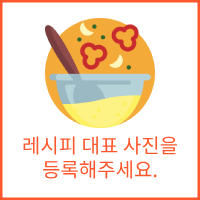
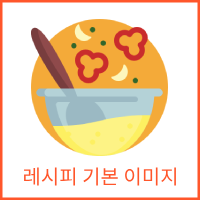
Feat: 레시피 대표 이미지 업로드 파일 삭제 버튼, 파일 미업로드시 기본 이미지로 저장 구현

diff --git a/src/pages/RecipeWrite.js b/src/pages/RecipeWrite.js
@@ -10,18 +10,20 @@ function RecipeWrite(props) {
   const [newIngredientName, setNewIngredientName] = useState("");
   const [newIngredientAmount, setNewIngredientAmount] = useState("");
   const [recipeSteps, setRecipeSteps] = useState([]); // 요리 과정
-  // 레시피 대표 이미지 첨부하기 추가해야함 -> 피그마에 그린대로는 아니지만 일단 구현함
-  // camera icon url : "https://lh3.googleusercontent.com/EbXw8rOdYxOGdXEFjgNP8lh-YAuUxwhOAe2jhrz3sgqvPeMac6a6tHvT35V6YMbyNvkZL4R_a2hcYBrtfUhLvhf-N2X3OB9cvH4uMw=w1064-v0"
+  const [isHovered, setIsHovered] = useState(false);
+  const [recipeImg, setRecipeImg] = useState("");
+  const [stateFile, setStateFile] = useState(null);
 
   const defaultRecipeImgUrl = require("../assets/img/recipeDefaultImg.png");
-
-  const [recipeImg, setRecipeImg] = useState(defaultRecipeImgUrl);
+  const plzUploadImgUrl = require("../assets/img/plzUploadImg.png");
 
   const handleImgUpload = (e) => {
     const file = e.target.files[0];
     if (file) {
       const reader = new FileReader();
       reader.onload = () => {
+        setStateFile(reader.result);
+        // setRecipeImg(stateFile);  // 화면에 업로드한 이미지 미리보기 X
         setRecipeImg(reader.result);
       };
       reader.readAsDataURL(file);
@@ -29,7 +31,12 @@ function RecipeWrite(props) {
   };
 
   const handleImgDelete = () => {
-    setRecipeImg(defaultRecipeImgUrl);
+    // setRecipeImg(stateFile);
+    setRecipeImg("");
+  };
+
+  const handleDeleteImage = () => {
+    handleImgDelete();
   };
 
   const handleDeleteIngredient = (idx) => {
@@ -92,18 +99,29 @@ function RecipeWrite(props) {
       document.getElementById("recipe-servings-select").value
     );
 
-    const newRecipe = {
-      title,
-      recipeType: selectedType,
-      recipeServing: selectedServing,
-      ingredients,
-      process: recipeSteps,
-    };
-    console.log("newRecipe");
-    console.log(newRecipe);
+    let newRecipe;
+    // 작성자가 이미지 파일 미업로드로 레시피 등록하는 경우, 'defaultRecipeImgUrl'로 레시피 대표 이미지 처리
+    if (stateFile === null) {
+      newRecipe = {
+        title,
+        recipeType: selectedType,
+        recipeServing: selectedServing,
+        ingredients,
+        process: recipeSteps,
+        imageUrl: defaultRecipeImgUrl,
+      };
+    } else {
+      newRecipe = {
+        title,
+        recipeType: selectedType,
+        recipeServing: selectedServing,
+        ingredients,
+        process: recipeSteps,
+      };
+    }
 
     axios
-      .post("/recipe", newRecipe)
+      .post("/api/recipes", newRecipe)
       .then((response) => {
         console.log("Recipe created: ", response.data);
       })
@@ -132,12 +150,15 @@ function RecipeWrite(props) {
             <div>
               <label htmlFor="recipe-type-select">
                 {/* 요리 종류 _ 저장 방식에 대한 고민 발생 (월요일 백오피스아워 시간에 질문 예정) 요리 종류 */}
-                <select name="recipe-types" id="recipe-type-select">
-                  <option value="반찬" selected>
-                    반찬
-                  </option>
-                  <option value="국&찌개">국&찌개</option>
+                <select
+                  name="recipe-types"
+                  id="recipe-type-select"
+                  defaultValue="간단한 요리"
+                >
                   <option value="메인요리">메인요리</option>
+                  <option value="국&찌개">국&찌개</option>
+                  <option value="반찬">반찬</option>
+                  <option value="간단한 요리">간단한 요리</option>
                   <option value="디저트">디저트</option>
                 </select>
               </label>
@@ -145,12 +166,14 @@ function RecipeWrite(props) {
             <div>
               <label htmlFor="recipe-servings-select">
                 인분수량
-                <select name="recipe-serving" id="recipe-servings-select">
-                  <option value="0" selected>
-                    1인분
-                  </option>
-                  <option value="1">2인분</option>
-                  <option value="2">n인분</option>
+                <select
+                  name="recipe-serving"
+                  id="recipe-servings-select"
+                  defaultValue="1"
+                >
+                  <option value="1">1인분</option>
+                  <option value="2">2인분</option>
+                  <option value="3">3인분 이상</option>
                 </select>
               </label>
             </div>
@@ -159,6 +182,7 @@ function RecipeWrite(props) {
                 재료
                 <br />
                 <input
+                  id="recipe-ingredient"
                   value={newIngredientName}
                   onChange={handleIngredientNameChange}
                   placeholder="식재료명"
@@ -189,34 +213,36 @@ function RecipeWrite(props) {
           <div
             id="recipe-form-top-right"
             style={{
-              position: "fixed",
               right: "0",
               width: "30%",
             }}
           >
             <div
+              id="upload-img-container"
               style={{
+                position: "relative",
                 width: "200px",
                 height: "200px",
+                backgroundImage: `url(${plzUploadImgUrl})`,
               }}
+              onMouseEnter={() => setIsHovered(true)}
+              onMouseLeave={() => setIsHovered(false)}
             >
-              <button
-                id="delete-img-btn"
-                onClick={handleImgDelete}
-                style={{
-                  float: "right",
-                  right: "0",
-                  padding: "5px",
-                  weight: "30px",
-                  height: "33px",
-                  border: "none",
-                  borderRadius: "2px",
-                  cursor: "pointer",
-                  background: "rgba(0,0,0,0.8)",
-                }}
-              >
-                <CloseIcon color="white" />
-              </button>
+              {recipeImg !== "" && isHovered && (
+                <div
+                  onClick={handleImgDelete}
+                  style={{
+                    position: "absolute",
+                    right: "0",
+                    padding: "3px",
+                    borderRadius: "2px",
+                    cursor: "pointer",
+                    backgroundColor: "rgba(0,0,0,0.7)",
+                  }}
+                >
+                  <CloseIcon color={"#fff"} />
+                </div>
+              )}
               <form action="/form/submit" method="get">
                 <div
                   id="recipe-img-container"
@@ -229,6 +255,7 @@ function RecipeWrite(props) {
                   }}
                 >
                   <label
+                    htmlFor="fileInput"
                     className="label"
                     style={{
                       width: "inherit",
